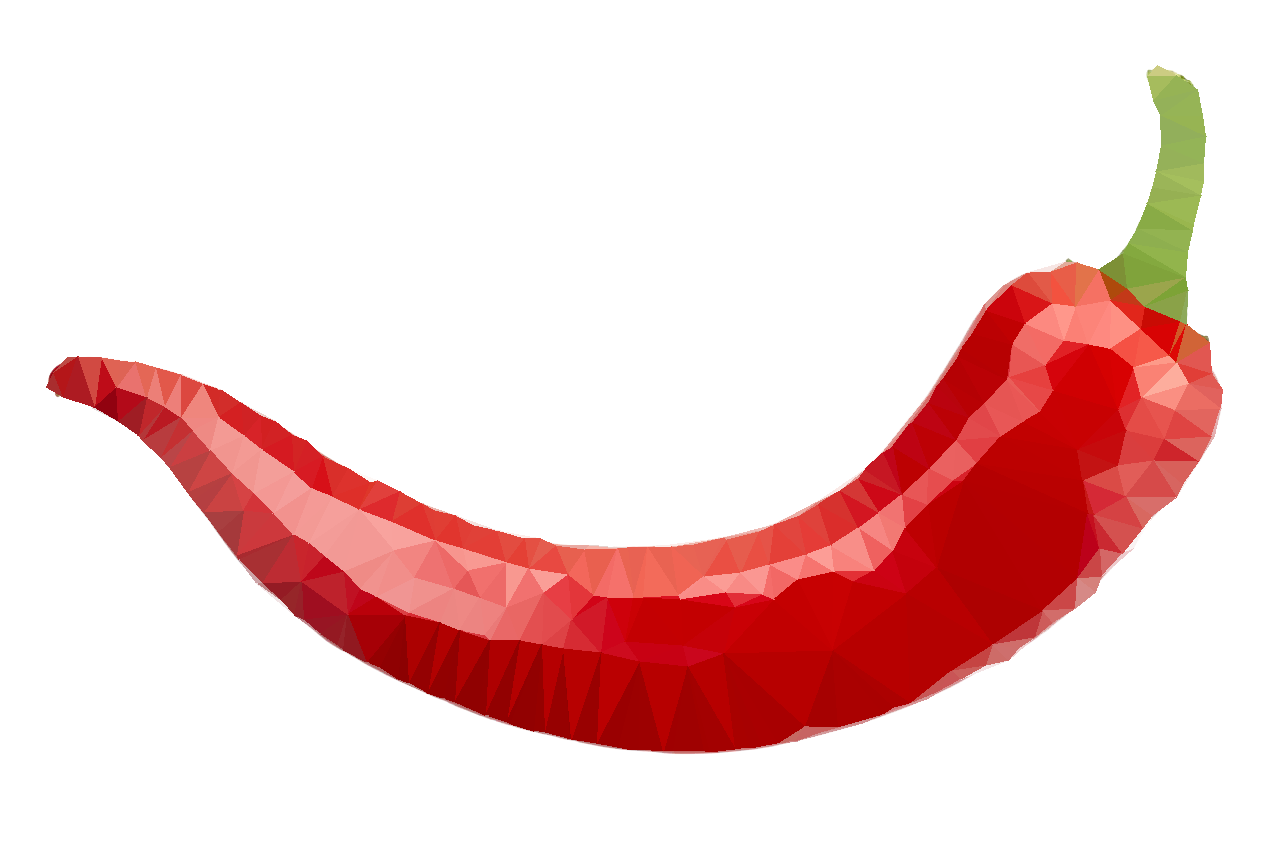
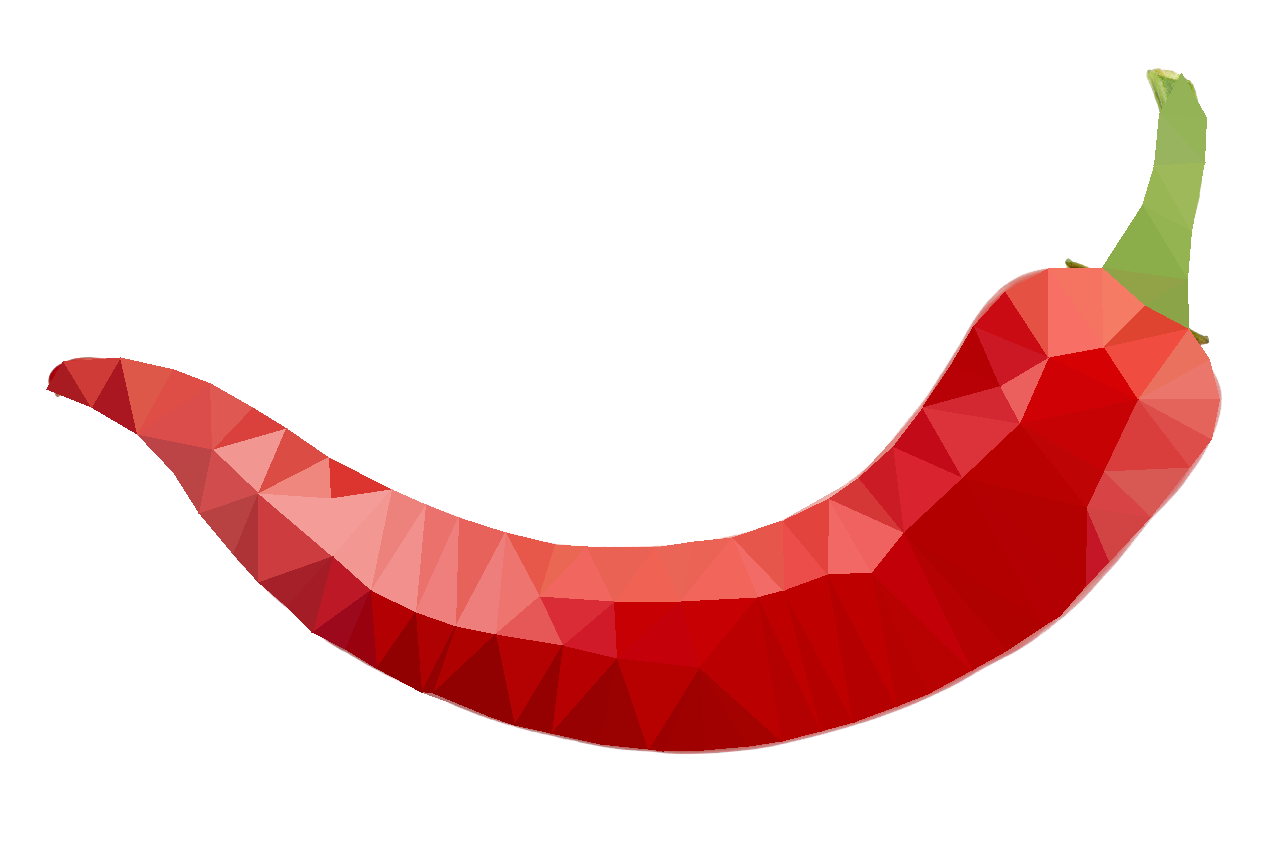
Updated README to account for ditched desmos graph

diff --git a/README.md b/README.md
@@ -1,21 +1,21 @@
-# Desmos Lowpoly
-This is a script to generate lowpoly of a image in a desmos graph. Python version uses selenium to open the browser and display the content but it's optional and you can also paste the js directly into browser console. There's also a [Javascript version](https://desmoslowpoly.netlify.app/) you can run directly in your browser.
+# Lowpoly
 
-![Preview mage](preview.png)
+This is a script to generate lowpoly of a image. Two version are available, local python script and a web version. Python version has a option to use entropy method which is slow to calculate on the browser.
+
+## Showcase
+| Original | Lowpoly |
+|----------|---------|
+|![Dogimage original](dogimage.jpg)|![Dogimage lowpoly](dogimage_lowpoly.png)|
+|![chilli original](chilli.png)|![chilli lowpoly](chilli_lowpoly.png)|
 
 ## How to Run the Python Script
 
 - **Clone the repo**
     ```
-    git clone https://github.com/kapilpokhrel/DesmosLowpoly.git
-    cd DesmosLowpoly
+    git clone https://github.com/kapilpokhrel/Lowpoly.git
+    cd Lowpoly
     ```
 - **Install dependencies**
-    - [**Optional**] Download browser driver for selenium.
-    [Install browser drivers.](https://www.selenium.dev/documentation/webdriver/getting_started/install_drivers/)
-    
-        You can pass -nb flag to not open the browser and get the js expressions to run on browser yourself.
-
     - Install python packages
     ```
     pip install -r requirements.txt
@@ -24,22 +24,14 @@ This is a script to generate lowpoly of a image in a desmos graph. Python versio
     ```
     python lowpoly.py dogimage.jpg
     ```
-    If you wish to not use selenium to open browser, you can copy the code into the desmos calculator console.
-    
-    - Run
-        ``` 
-        python lowpoly.py dogimage.jpg -nb | xclip -selection clipboard 
-        ```
-    - Goto https://www.desmos.com/calculator
-    - Open Inspect element (Press F12) and goto console tab.
-    - Paste the code and hit enter.
+    For command line options, run
+    ```
+    python lowpoly.py --help
+    ```
 
-    Sometimes when using more points you might want to wait sometimes after browser window opens before it starts drawing.
+## ~~Why Python script instead of just using Javascript?~~
 
-## ~~Why Python with selenium instead of just using Javascript?~~
-
-~~I know its tedious to clone the repo and install all dependencies just to see it open in a browser. But here are some reasons I chose python:~~
-- ~~I like the fact of being able to open the graph in actual desmos app that lets you save in your account and share instead of just seeing a graph.~~
+~~I know its tedious to clone the repo and install all dependencies. But here are some reasons I chose python:~~
 - ~~I did write it in Javascript to check but calculating entropy of a image was way too slow and I couldn't find any faster way to do it in JS.~~
 - ~~It's easy with everything already done for you by python packages.:grin:~~
 
